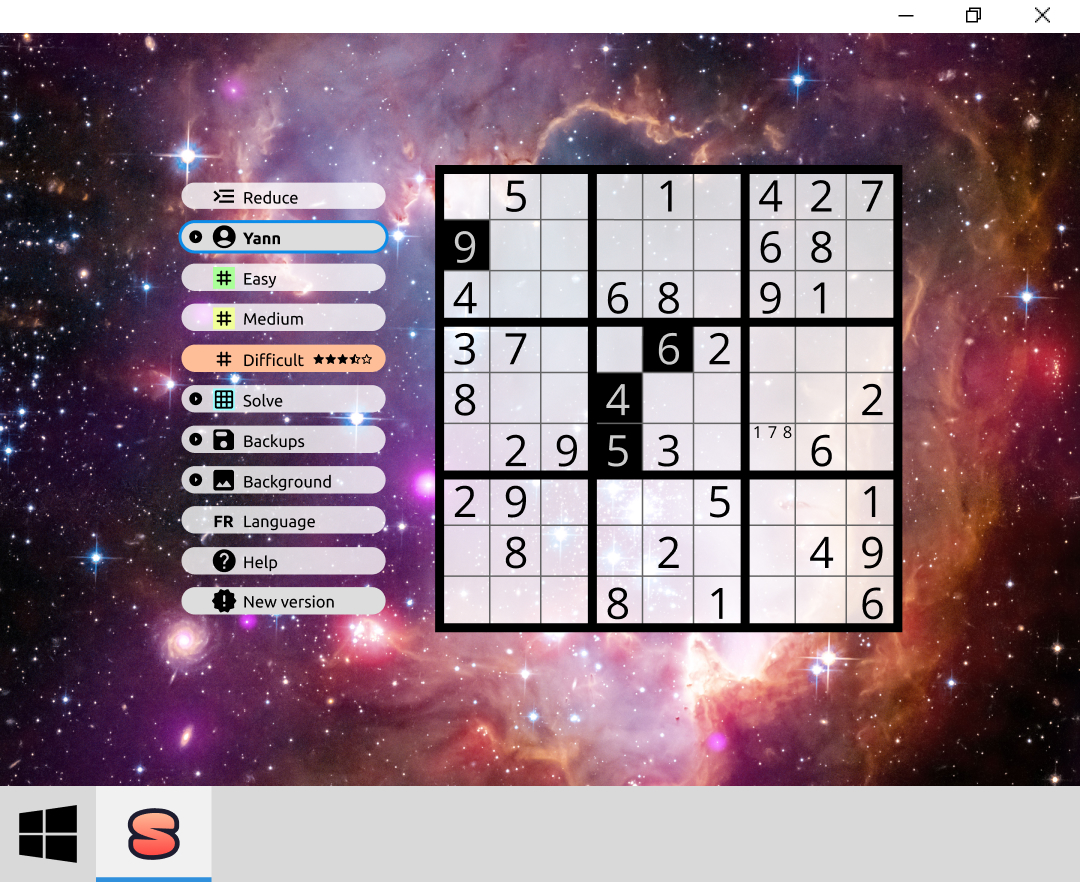
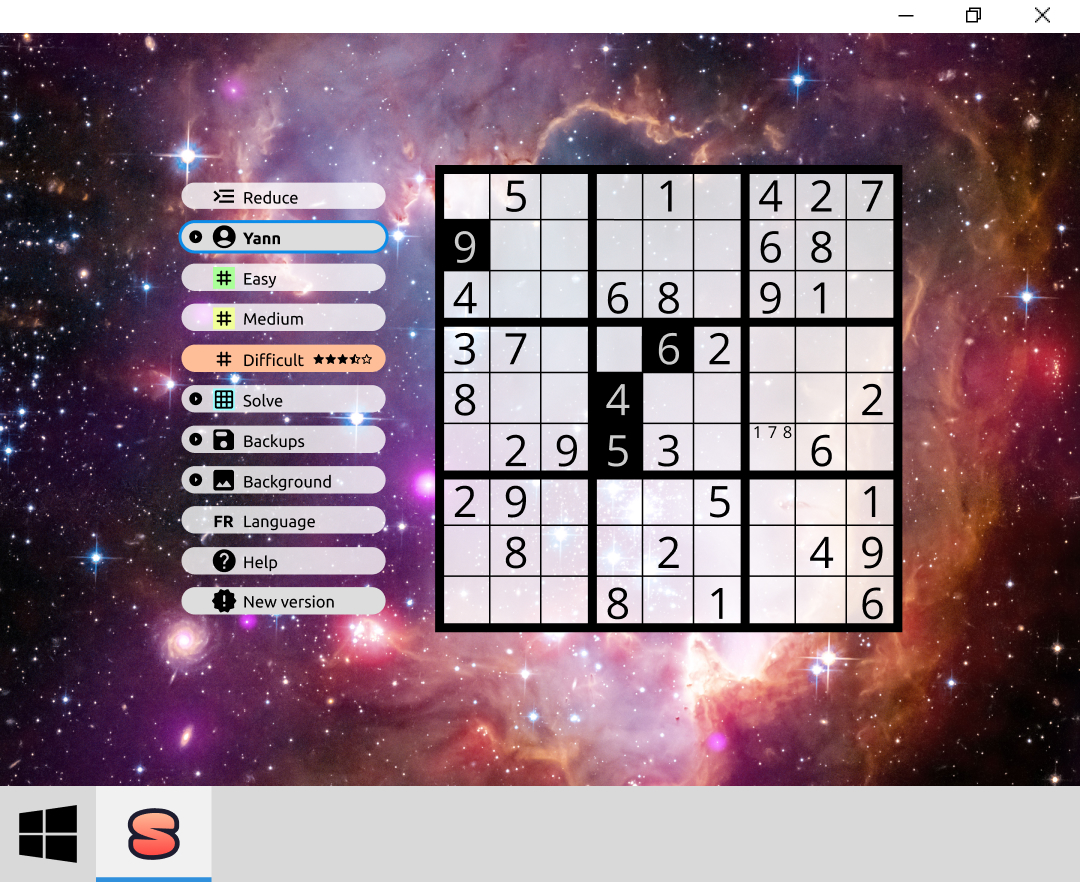
✨ feat img, GridCellViewModel, style.css: Grid rendering - Basic grid rendering implemented - Still missing support for non-editable (preset) values - MenuLevelViewModelUTest needs to be adapted - README Sudoku grid image to update

diff --git a/src/main/resources/fr/softsf/sudokufx/style/style.css b/src/main/resources/fr/softsf/sudokufx/style/style.css
@@ -83,7 +83,7 @@
     -fx-pref-height: 27.9em;
     -fx-max-height: 27.9em;
     -fx-min-height: 27.9em;
-    -fx-background-color: yellow;
+    -fx-background-color: transparent;
 }
 
 .sudokuFXGridCell {
@@ -96,7 +96,6 @@
     -fx-border-color: black;
     -fx-border-style: solid;
     -fx-alignment: center;
-    -fx-background-color: green;
     -fx-font-size: 1em;
     -fx-text-alignment: center;
     -fx-content-display: text-only;
@@ -105,6 +104,9 @@
     -fx-text-overrun: clip;
     -fx-wrap-text: false;
     -fx-text-alignment: center;
+    -fx-background-color: transparent;
+    -fx-background-color: rgba(255, 255, 255, 0.8);
+    -fx-text-fill: black;
 }
 
 .label.sudokuFXGridCell:focused {
@@ -113,11 +115,17 @@
 
 .sudokuFXGridCellLargeFont {
     -fx-font-size: 2.63em;
+    -fx-pref-width: 1.174em;
+    -fx-pref-height: 1.174em;
+    -fx-min-width: 1.174em;
+    -fx-min-height: 1.174em;
+    -fx-max-width: 1.174em;
+    -fx-max-height: 1.174em;
 }
 
 .text-area.sudokuFXGridCell {
     -fx-control-inner-background: transparent;
-    -fx-background-color: turquoise;
+    -fx-background-color: white;
     -fx-padding: 0;
     -fx-alignment: center;
     -fx-border-color: black;
@@ -150,15 +158,6 @@
     -fx-background-radius: 0;
     -fx-border-radius: 0;
 }
-
-
-
-
-
-
-
-
-
 
 .button:focused {
     -fx-border-width: .2em;

diff --git a/src/main/java/fr/softsf/sudokufx/viewmodel/grid/GridCellViewModel.java b/src/main/java/fr/softsf/sudokufx/viewmodel/grid/GridCellViewModel.java
@@ -5,7 +5,9 @@
  */
 package fr.softsf.sudokufx.viewmodel.grid;
 
+import java.util.Locale;
 import java.util.function.UnaryOperator;
+
 import javafx.beans.binding.Bindings;
 import javafx.beans.binding.StringBinding;
 import javafx.beans.property.IntegerProperty;
@@ -38,8 +40,6 @@ public class GridCellViewModel {
     private final int row;
     private final int col;
 
-    private final String borderStyle;
-
     public GridCellViewModel(int id, int row, int col) {
         this.id.set(id);
         this.row = row;
@@ -51,15 +51,7 @@ public class GridCellViewModel {
         textArea.getStyleClass().add("sudokuFXGridCell");
         textArea.setPrefRowCount(3);
         textArea.setWrapText(true);
-        String thick = "0.2em", thin = "0.05em";
-        String top = (row == 0) ? thick : thin;
-        String left = (col == 0) ? thick : thin;
-        String bottom = ((row + 1) % 3 == 0) ? thick : thin;
-        String right = ((col + 1) % 3 == 0) ? thick : thin;
-        this.borderStyle =
-                String.format(
-                        "-fx-border-color: black black black black; -fx-border-width: %s %s %s %s;",
-                        top, right, bottom, left);
+        String borderStyle = getBorderStyle(label.getText().length(), false);
         label.setStyle(borderStyle);
         textArea.setStyle(borderStyle);
         // Formatted display text derived from raw input (e.g., "123456789" -> multiline with
@@ -84,18 +76,14 @@ public class GridCellViewModel {
      */
     private void setupListeners() {
         // Focus styling
-        label.focusedProperty()
-                .addListener(
-                        (obs, oldV, newV) -> {
-                            if (newV) {
-                                label.setStyle(
-                                        "-fx-border-color: radial-gradient(center 50% 150%, radius"
-                                            + " 100%, derive(#0C8CE9, -90%), derive(#0C8CE9, 55%));"
-                                            + " -fx-border-width: 0.2em;");
-                            } else {
-                                label.setStyle(borderStyle);
-                            }
-                        });
+        label.focusedProperty().addListener((obs, oldV, newV) ->
+        {
+            if (newV) {
+                label.setStyle(getBorderStyle(label.getText().length(), true));
+            } else {
+                label.setStyle(getBorderStyle(label.getText().length(), false));
+            }
+        });
         // Label click or key press to edit
         label.setOnMouseClicked(e -> switchToEditMode());
         label.setOnKeyPressed(
@@ -157,28 +145,60 @@ public class GridCellViewModel {
                             label.setVisible(true);
                             label.requestFocus();
                         }
-                        default -> {}
+                        default -> {
+                        }
                     }
                 });
 
         // Vous pouvez réactiver le listener pour la taille de police si besoin
-        //        label.textProperty()
-        //                .addListener(
-        //                        (obs, oldText, newText) -> {
-        //                            if (newText != null && newText.replace("\n", "").length() ==
-        // 1) {
-        //                                if
-        // (!label.getStyleClass().contains("sudokuFXGridCellLargeFont")) {
-        //
-        // label.getStyleClass().add("sudokuFXGridCellLargeFont");
-        //                                }
-        //                            } else {
-        //                                label.getStyleClass().remove("sudokuFXGridCellLargeFont");
-        //                            }
-        //                        });
+        label.textProperty()
+                .addListener(
+                        (obs, oldText, newText) -> {
+                            if (newText != null && newText.replace("\n", "").length() == 1) {
+                                if (!label.getStyleClass().contains("sudokuFXGridCellLargeFont")) {
+                                    label.getStyleClass().add("sudokuFXGridCellLargeFont");
+                                    label.setStyle(getBorderStyle(label.getText().length(), false));
+                                }
+                            } else {
+                                label.getStyleClass().remove("sudokuFXGridCellLargeFont");
+                                label.setStyle(getBorderStyle(label.getText().length(), false));
+                            }
+                        });
     }
 
-    /** Switches from label (read-only) to editable TextArea mode and focuses it. */
+    /**
+     * Computes the dynamic CSS border style for a Sudoku grid cell based on its position,
+     * content size, and focus state.
+     *
+     * @param nbOfChar        Number of characters in the cell (used to scale the border).
+     * @param focusedBorder   Whether the cell is currently focused (affects color and thickness).
+     * @return A CSS style string for -fx-border-color and -fx-border-width.
+     */
+    private String getBorderStyle(int nbOfChar, boolean focusedBorder) {
+        double scale = nbOfChar == 1 ? .35 : 1;
+        double baseThick = 0.2;
+        double baseThin = focusedBorder ? 0.2 : 0.05;
+        String color =
+                focusedBorder
+                        ? "-fx-border-color: radial-gradient(center 50% 150%, radius"
+                        + " 100%, derive(#0C8CE9, -90%), derive(#0C8CE9, 55%));"
+                        : "black";
+        String top = String.format(Locale.US, "%.3fem", (row == 0 ? baseThick : baseThin) * scale);
+        String right =
+                String.format(
+                        Locale.US, "%.3fem", ((col + 1) % 3 == 0 ? baseThick : baseThin) * scale);
+        String bottom =
+                String.format(
+                        Locale.US, "%.3fem", ((row + 1) % 3 == 0 ? baseThick : baseThin) * scale);
+        String left = String.format(Locale.US, "%.3fem", (col == 0 ? baseThick : baseThin) * scale);
+        return String.format(
+                "-fx-border-color: %s; -fx-border-width: %s %s %s %s;",
+                color, top, right, bottom, left);
+    }
+
+    /**
+     * Switches from label (read-only) to editable TextArea mode and focuses it.
+     */
     private void switchToEditMode() {
         textArea.setText(rawText.get().replace("\n", ""));
         label.setVisible(false);
